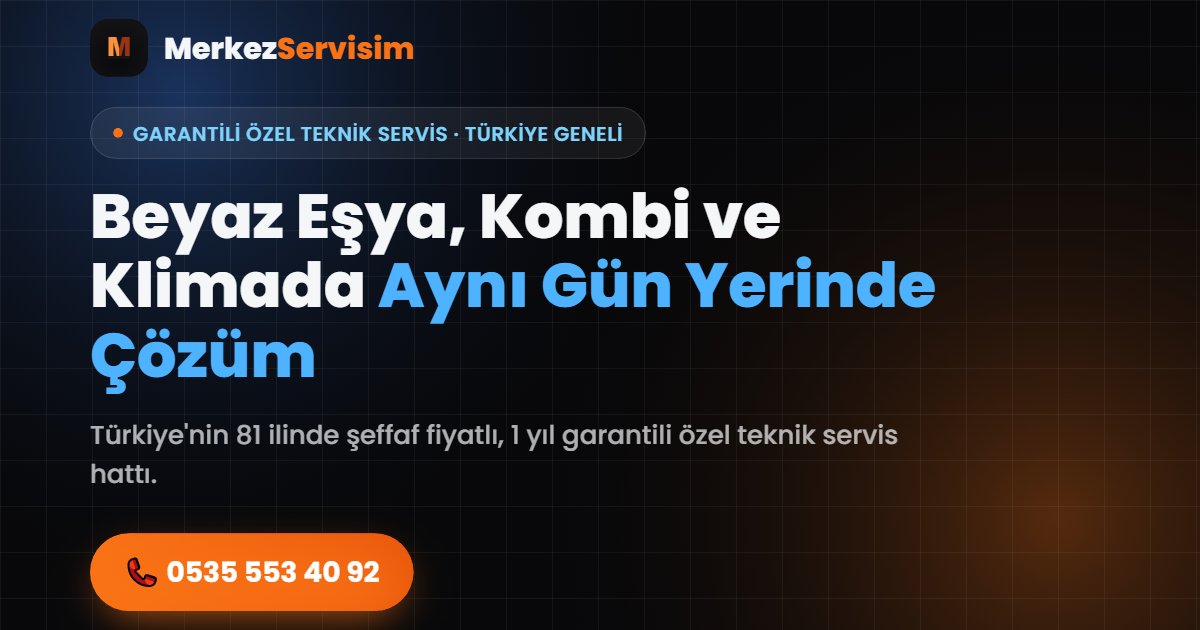
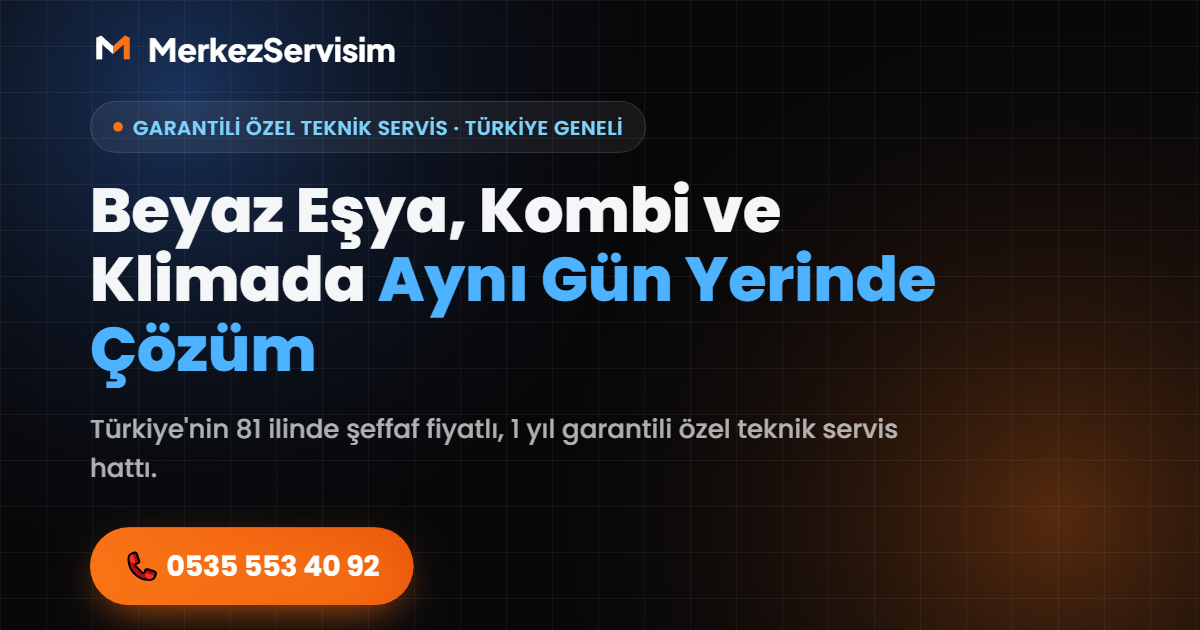
Logoyu referans siteyle birebir esitle: zikzak M + Plus Jakarta Sans
Kullanicinin gosterdigi merkezservisimm.vercel.app referansindaki logo
SVG'sini inceleyip ayni teknikle yeniden olusturduk: M harfi ince kesme
cizgisiyle (stroke) ciziliyor, tam ortadan beyaz/turuncu (#F97316) ikiye
bolunuyor, arka plan kutusu yok. Yazi fontu referanstaki gibi Plus
Jakarta Sans (800). Favicon ve OG gorseli de ayni tasarima guncellendi.

diff --git a/src/components/Logo.tsx b/src/components/Logo.tsx
@@ -1,35 +1,34 @@
 import Link from "next/link";
+import { Plus_Jakarta_Sans } from "next/font/google";
 import { cn } from "@/lib/utils";
+
+const jakarta = Plus_Jakarta_Sans({ subsets: ["latin"], weight: ["700", "800"] });
 
 function LogoMark({ className }: { className?: string }) {
   return (
-    <span className={cn("flex shrink-0 items-center justify-center rounded-xl bg-[#141417] shadow-[0_6px_20px_-6px_rgba(0,0,0,0.6)] ring-1 ring-white/10", className)}>
-      <svg viewBox="0 0 64 64" className="h-[62%] w-[62%]" aria-hidden="true">
-        <defs>
-          <clipPath id="logo-m-left">
-            <rect x="0" y="0" width="32" height="64" />
-          </clipPath>
-          <clipPath id="logo-m-right">
-            <rect x="32" y="0" width="32" height="64" />
-          </clipPath>
-        </defs>
-        <text x="32" y="47" textAnchor="middle" fontFamily="Arial, Helvetica, sans-serif" fontWeight="900" fontSize="46" clipPath="url(#logo-m-left)" fill="#fb923c">
-          M
-        </text>
-        <text x="32" y="47" textAnchor="middle" fontFamily="Arial, Helvetica, sans-serif" fontWeight="900" fontSize="46" clipPath="url(#logo-m-right)" fill="#9a3412">
-          M
-        </text>
-      </svg>
-    </span>
+    <svg viewBox="0 0 100 100" className={cn("shrink-0", className)} aria-hidden="true">
+      <defs>
+        <clipPath id="logo-m-left">
+          <rect x="-30" y="-30" width="80" height="160" />
+        </clipPath>
+        <clipPath id="logo-m-right">
+          <rect x="50" y="-30" width="80" height="160" />
+        </clipPath>
+      </defs>
+      <g fill="none" strokeWidth="13" strokeLinecap="butt" strokeLinejoin="miter" strokeMiterlimit="1.75">
+        <path d="M20 75 V28 L50 55 L80 28 V75" stroke="#FFFFFF" clipPath="url(#logo-m-left)" />
+        <path d="M20 75 V28 L50 55 L80 28 V75" stroke="#F97316" clipPath="url(#logo-m-right)" />
+      </g>
+    </svg>
   );
 }
 
 export function Logo({ className, markClassName, textClassName }: { className?: string; markClassName?: string; textClassName?: string }) {
   return (
-    <Link href="/" className={cn("flex items-center gap-2.5", className)}>
-      <LogoMark className={markClassName ?? "h-9 w-9"} />
-      <span className={cn("text-lg font-bold tracking-tight text-foreground", textClassName)}>
-        Merkez<span className="text-gradient-orange">Servisim</span>
+    <Link href="/" className={cn("flex items-center gap-2", className)}>
+      <LogoMark className={markClassName ?? "h-8 w-8"} />
+      <span className={cn(jakarta.className, "text-lg font-extrabold tracking-tight text-white", textClassName)}>
+        MerkezServisim
       </span>
     </Link>
   );
